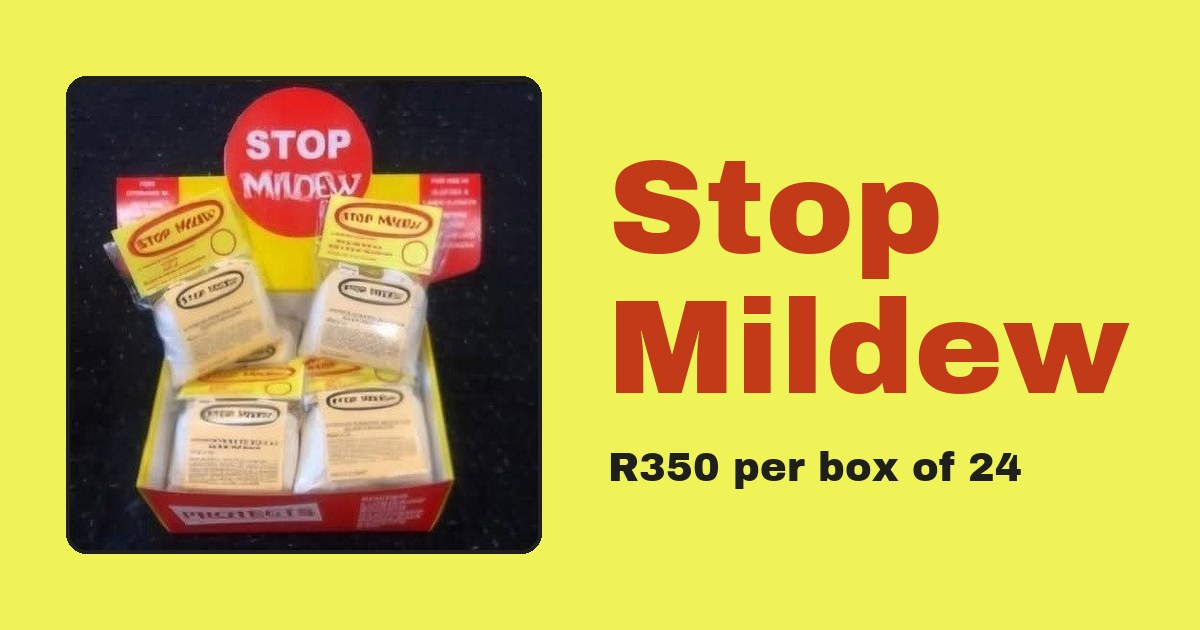
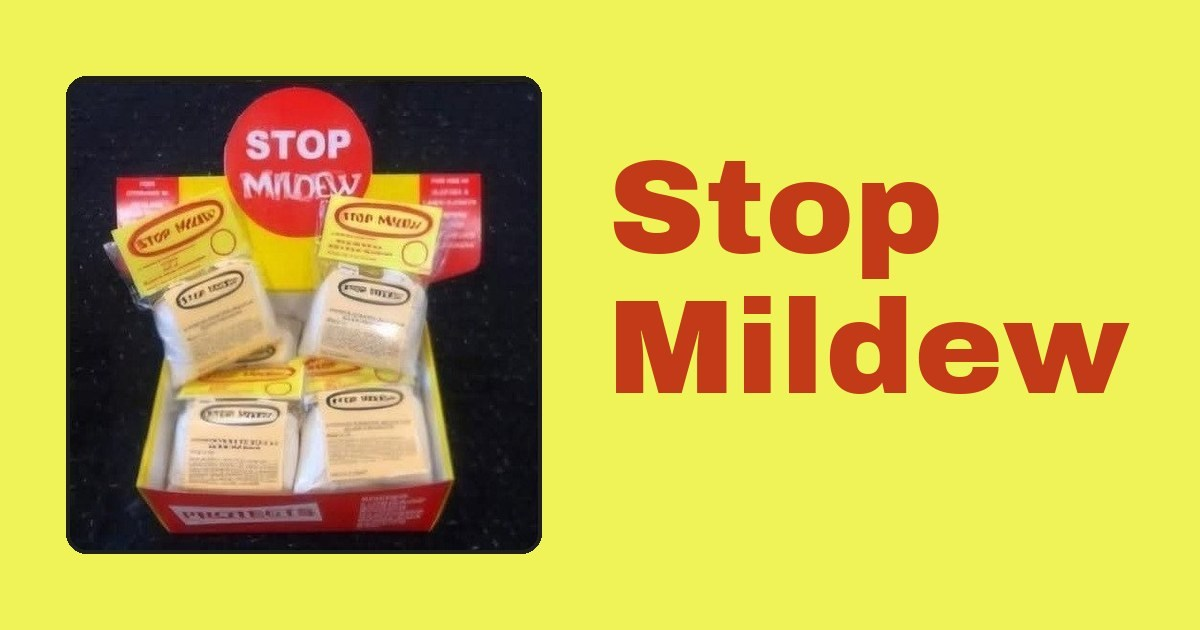
Remove pricing from the homepage
Stop Mildew sells mainly through retailers, so the homepage should not
read as a direct-to-public shop. Removes the R350 price from the meta,
social and structured data, the hero price tag and the order card, and
points the main buttons at trade enquiries. The share image no longer
shows the price either.

Changed region(s): [[0.4933, 0.6937, 0.8633, 0.7841]]

diff --git a/index.html b/index.html
@@ -4,9 +4,9 @@
 <meta charset="utf-8">
 <meta name="viewport" content="width=device-width, initial-scale=1">
 <title>Stop Mildew | Mould &amp; Mildew Preventative | South Africa</title>
-<meta name="description" content="Stop Mildew pouches stop mould &amp; mildew in wardrobes, boats, books and gun cases for 3–6 months. R350 per box of 24. Order on WhatsApp.">
+<meta name="description" content="Stop Mildew pouches stop mould &amp; mildew in wardrobes, boats, books and gun cases for 3–6 months. Supplied to retailers in boxes of 24.">
 <meta property="og:title" content="Stop Mildew – stops mildew before it starts">
-<meta property="og:description" content="Hang a pouch, close the door, and stay mildew-free for 3–6 months. Recommended price R350 per box of 24.">
+<meta property="og:description" content="Hang a pouch, close the door, and stay mildew-free for 3–6 months.">
 <meta property="og:type" content="website">
 <meta property="og:site_name" content="Stop Mildew">
 <meta property="og:locale" content="en_ZA">
@@ -16,7 +16,7 @@
 <meta property="og:image:alt" content="Stop Mildew pouches – the positive scientific mould &amp; mildew preventative">
 <meta name="twitter:card" content="summary_large_image">
 <meta name="twitter:title" content="Stop Mildew – stops mildew before it starts">
-<meta name="twitter:description" content="Hang a pouch, close the door, and stay mildew-free for 3–6 months. Recommended price R350 per box of 24.">
+<meta name="twitter:description" content="Hang a pouch, close the door, and stay mildew-free for 3–6 months.">
 <meta name="twitter:image" content="https://stopmildew.co.za/images/og-stop-mildew.jpg">
 <link rel="canonical" href="https://stopmildew.co.za/">
 <meta property="og:url" content="https://stopmildew.co.za/">
@@ -32,7 +32,7 @@
 {"@context":"https://schema.org","@type":"LocalBusiness","name":"Stop Mildew","url":"https://stopmildew.co.za/","email":"richard@stopmildew.co.za","telephone":"+27873781604","parentOrganization":{"@type":"Organization","name":"SAVAL Trading (Pty) Ltd"},"address":{"@type":"PostalAddress","streetAddress":"5 The Orchards, Augusta Country Estate, 88 Ashley Drive","addressLocality":"Gillitts","addressRegion":"KwaZulu-Natal","postalCode":"3610","addressCountry":"ZA"},"logo":"https://stopmildew.co.za/icon-512.png","image":"https://stopmildew.co.za/images/stop-mildew-box-of-24.jpg"}
 </script>
 <script type="application/ld+json">
-{"@context":"https://schema.org","@type":"Product","name":"Stop Mildew mildew pouches (box of 24)","brand":{"@type":"Brand","name":"Stop Mildew"},"image":["https://stopmildew.co.za/images/stop-mildew-box-of-24.jpg","https://stopmildew.co.za/images/stop-mildew-drawstring-pouches.jpg"],"description":"Draw-string pouches containing a 92% paraformaldehyde mildew inhibitor. The vapour stops the mould growth that causes mildew, protecting clothing, leather goods, books and paper from mould, mildew and musty odours. One pouch lasts 3–6 months.","offers":{"@type":"Offer","price":"350","priceCurrency":"ZAR","availability":"https://schema.org/InStock","url":"https://stopmildew.co.za/#order"}}
+{"@context":"https://schema.org","@type":"Product","name":"Stop Mildew mildew pouches (box of 24)","brand":{"@type":"Brand","name":"Stop Mildew"},"image":["https://stopmildew.co.za/images/stop-mildew-box-of-24.jpg","https://stopmildew.co.za/images/stop-mildew-drawstring-pouches.jpg"],"description":"Draw-string pouches containing a 92% paraformaldehyde mildew inhibitor. The vapour stops the mould growth that causes mildew, protecting clothing, leather goods, books and paper from mould, mildew and musty odours. One pouch lasts 3–6 months."}
 </script>
 </head>
 <body>
@@ -49,7 +49,7 @@
         <li><a href="#contact">Contact</a></li>
       </ul>
     </nav>
-    <a class="btn btn-red" href="#order">Order now</a>
+    <a class="btn btn-red" href="#trade">Trade enquiries</a>
   </div>
 </header>
 
@@ -61,14 +61,12 @@
         <h1>Mildew pouches that stop mould before it starts.</h1>
         <p class="lead">Hang a pouch, close the door, and your clothes, leather, books and papers stay fresh for 3–6 months.</p>
         <div class="cta">
-          <a class="btn btn-red" href="#order">Order a box – R350</a>
+          <a class="btn btn-red" href="#trade">Stock Stop Mildew</a>
           <a class="btn btn-line" href="#how">How it works</a>
         </div>
       </div>
       <div class="hero-photo">
-        <picture><source type="image/webp" srcset="/images/stop-mildew-box-of-24.webp"><img src="/images/stop-mildew-box-of-24.jpg" alt="An open box of 24 Stop Mildew pouches" width="480" height="480"></picture>
-        <div class="price-tag"><div class="eyebrow">Recommended price</div><strong>R350</strong><span>per box of 24</span></div>
-      </div>
+        <picture><source type="image/webp" srcset="/images/stop-mildew-box-of-24.webp"><img src="/images/stop-mildew-box-of-24.jpg" alt="An open box of 24 Stop Mildew pouches" width="480" height="480"></picture>      </div>
     </div>
   </div>
 
@@ -151,18 +149,17 @@
   <section id="order" class="order">
     <div class="wrap order-grid">
       <div>
-        <div class="eyebrow">Order yours today</div>
-        <h2>Get mildew-free this season.</h2>
-        <p class="lead">Call, WhatsApp or email to place your order. Each box holds 24 pouches.</p>
-        <p class="sub">Buying for a store or ordering in bulk? <a href="#trade">See trade pricing</a>.</p>
+        <div class="eyebrow">Get in touch</div>
+        <h2>Questions about Stop Mildew?</h2>
+        <p class="lead">Call, WhatsApp or email Richard. Stop Mildew is supplied in boxes of 24 pouches.</p>
+        <p class="sub">Buying for a store? <a href="#trade">See trade enquiries</a>.</p>
       </div>
       <div class="order-card">
-        <div class="price"><strong>R350</strong><span>recommended price<br>per box of 24 pouches</span></div>
         <div class="contact-name">Richard Valentine<span>Director, Stop Mildew</span></div>
         <ul class="contact-list">
           <li><a href="tel:+27790854684"><svg viewBox="0 0 24 24" fill="none" stroke="currentColor" stroke-width="2" stroke-linecap="round" stroke-linejoin="round" aria-hidden="true"><path d="M5 3h4l2 5-2.5 1.5a11 11 0 0 0 6 6L16 13l5 2v4a2 2 0 0 1-2 2A16 16 0 0 1 3 5a2 2 0 0 1 2-2z"/></svg>Call 079 085 4684</a></li>
-          <li><a href="https://wa.me/27790854684?text=Hi%20Richard%2C%20I%27d%20like%20to%20order%20Stop%20Mildew." target="_blank" rel="noopener"><svg viewBox="0 0 24 24" fill="none" stroke="currentColor" stroke-width="2" stroke-linecap="round" stroke-linejoin="round" aria-hidden="true"><path d="M3 21l1.7-4.6A8.5 8.5 0 1 1 8 19.6z"/><path d="M9 9.5c0 3 2.5 5.5 5.5 5.5l1-1.5-2-1-1 1a4 4 0 0 1-2-2l1-1-1-2z"/></svg>WhatsApp us</a></li>
-          <li><a href="mailto:richard@stopmildew.co.za?subject=Stop%20Mildew%20order"><svg viewBox="0 0 24 24" fill="none" stroke="currentColor" stroke-width="2" stroke-linecap="round" stroke-linejoin="round" aria-hidden="true"><rect x="3" y="5" width="18" height="14" rx="1"/><path d="M3 7l9 6 9-6"/></svg>richard@stopmildew.co.za</a></li>
+          <li><a href="https://wa.me/27790854684?text=Hi%20Richard%2C%20I%20have%20a%20question%20about%20Stop%20Mildew." target="_blank" rel="noopener"><svg viewBox="0 0 24 24" fill="none" stroke="currentColor" stroke-width="2" stroke-linecap="round" stroke-linejoin="round" aria-hidden="true"><path d="M3 21l1.7-4.6A8.5 8.5 0 1 1 8 19.6z"/><path d="M9 9.5c0 3 2.5 5.5 5.5 5.5l1-1.5-2-1-1 1a4 4 0 0 1-2-2l1-1-1-2z"/></svg>WhatsApp us</a></li>
+          <li><a href="mailto:richard@stopmildew.co.za?subject=Stop%20Mildew%20enquiry"><svg viewBox="0 0 24 24" fill="none" stroke="currentColor" stroke-width="2" stroke-linecap="round" stroke-linejoin="round" aria-hidden="true"><rect x="3" y="5" width="18" height="14" rx="1"/><path d="M3 7l9 6 9-6"/></svg>richard@stopmildew.co.za</a></li>
         </ul>
       </div>
     </div>
